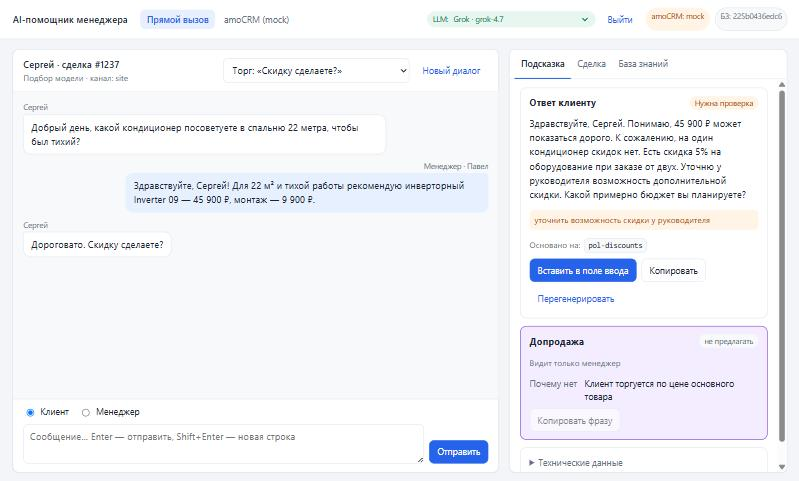
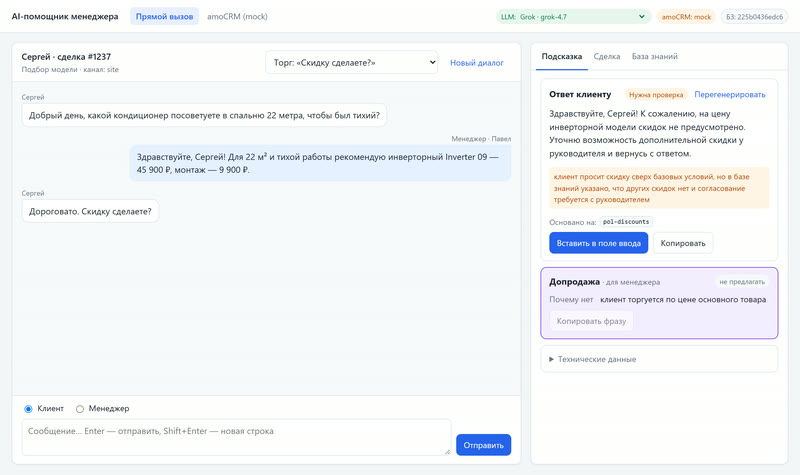
Лицензия MIT и новый скриншот живой модели (#11)
- LICENSE: MIT, правообладатель chaoseye; ссылка в README (раздел «Лицензия») и в дереве STRUCTURE.md.
- docs/screenshots/05-live-model.jpg переснят в текущем интерфейсе: локальный режим live, Grok 4.7 через
  шлюз, сценарий «Торг: скидку сделаете?» — один живой запрос. Старый снимок был с версии от 29.09.
- STRUCTURE.md: у папки widget/ (этап 3) указано, что её пока нет.

diff --git a/docs/STRUCTURE.md b/docs/STRUCTURE.md
@@ -131,7 +131,7 @@ Testovoe_O_Complex/
 │   └── amocrm/mock_account.json # «аккаунт» поддельного amoCRM: воронка, сделки, контакты, каталог
 ├── tests/                       # раздел 12
 ├── evals/                       # раздел 12
-├── widget/                      # виджет amoCRM, упаковывается в zip (этап 3)
+├── widget/                      # этап 3, папки пока нет: виджет amoCRM, упаковывается в zip
 ├── docs/                        # TZ, FUNCTIONALITY, STRUCTURE, AI_USAGE; screenshots/ — для README
 ├── data/                        # SQLite (в .gitignore, volume в Docker)
 ├── .env.example
@@ -140,6 +140,7 @@ Testovoe_O_Complex/
 ├── .github/workflows/ci.yml     # GitHub Actions: ruff и pytest (Python 3.11, 3.12), сборка и запуск образа
 ├── vercel.json                  # онлайн-демо: регион, mock-режимы, что не попадает в функцию
 ├── pyproject.toml               # зависимости, ruff, pytest, команда ai-assistant, точка входа для Vercel
+├── LICENSE                      # MIT
 └── README.md
 ```
 

diff --git a/README.md b/README.md
@@ -375,3 +375,7 @@ vercel env add LLM_GATEWAY_KEY production
 - [docs/FUNCTIONALITY.md](docs/FUNCTIONALITY.md) — сценарии, правила генерации, проверки, крайние случаи;
 - [docs/STRUCTURE.md](docs/STRUCTURE.md) — архитектура, модули, данные, API, конфигурация;
 - [docs/AI_USAGE.md](docs/AI_USAGE.md) — как проект собирался с помощью ИИ.
+
+## Лицензия
+
+MIT — см. [LICENSE](LICENSE).
